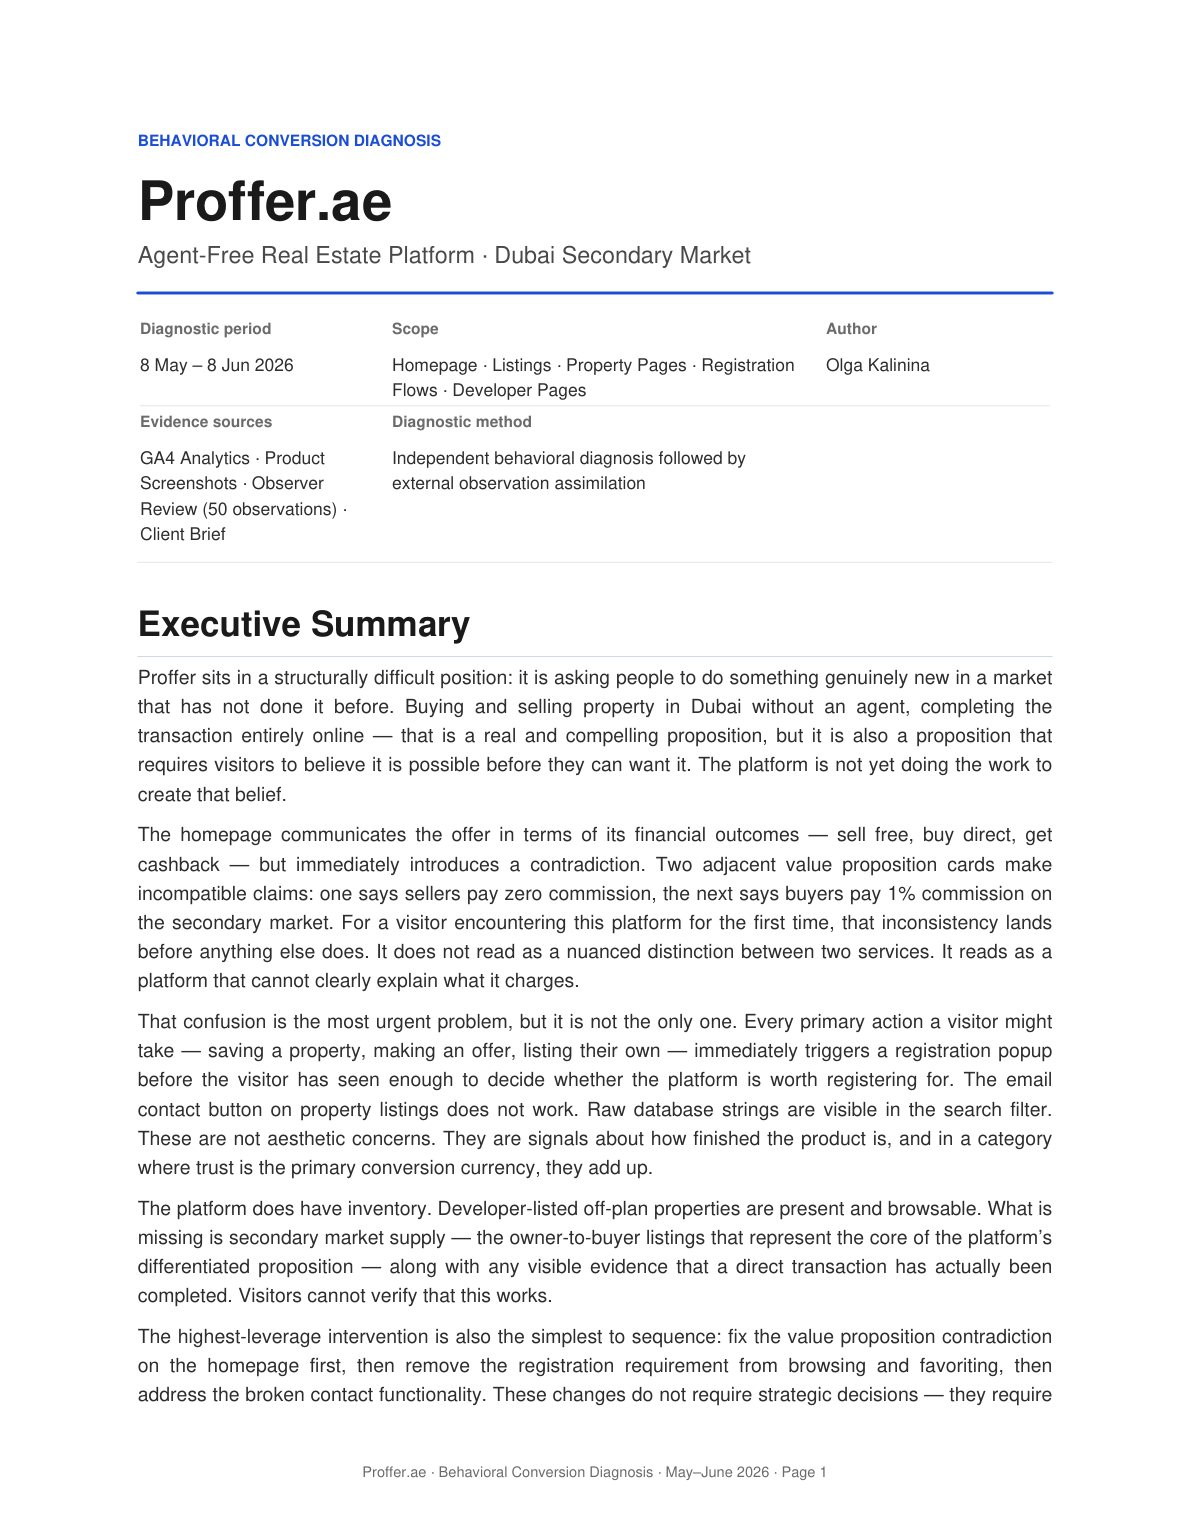
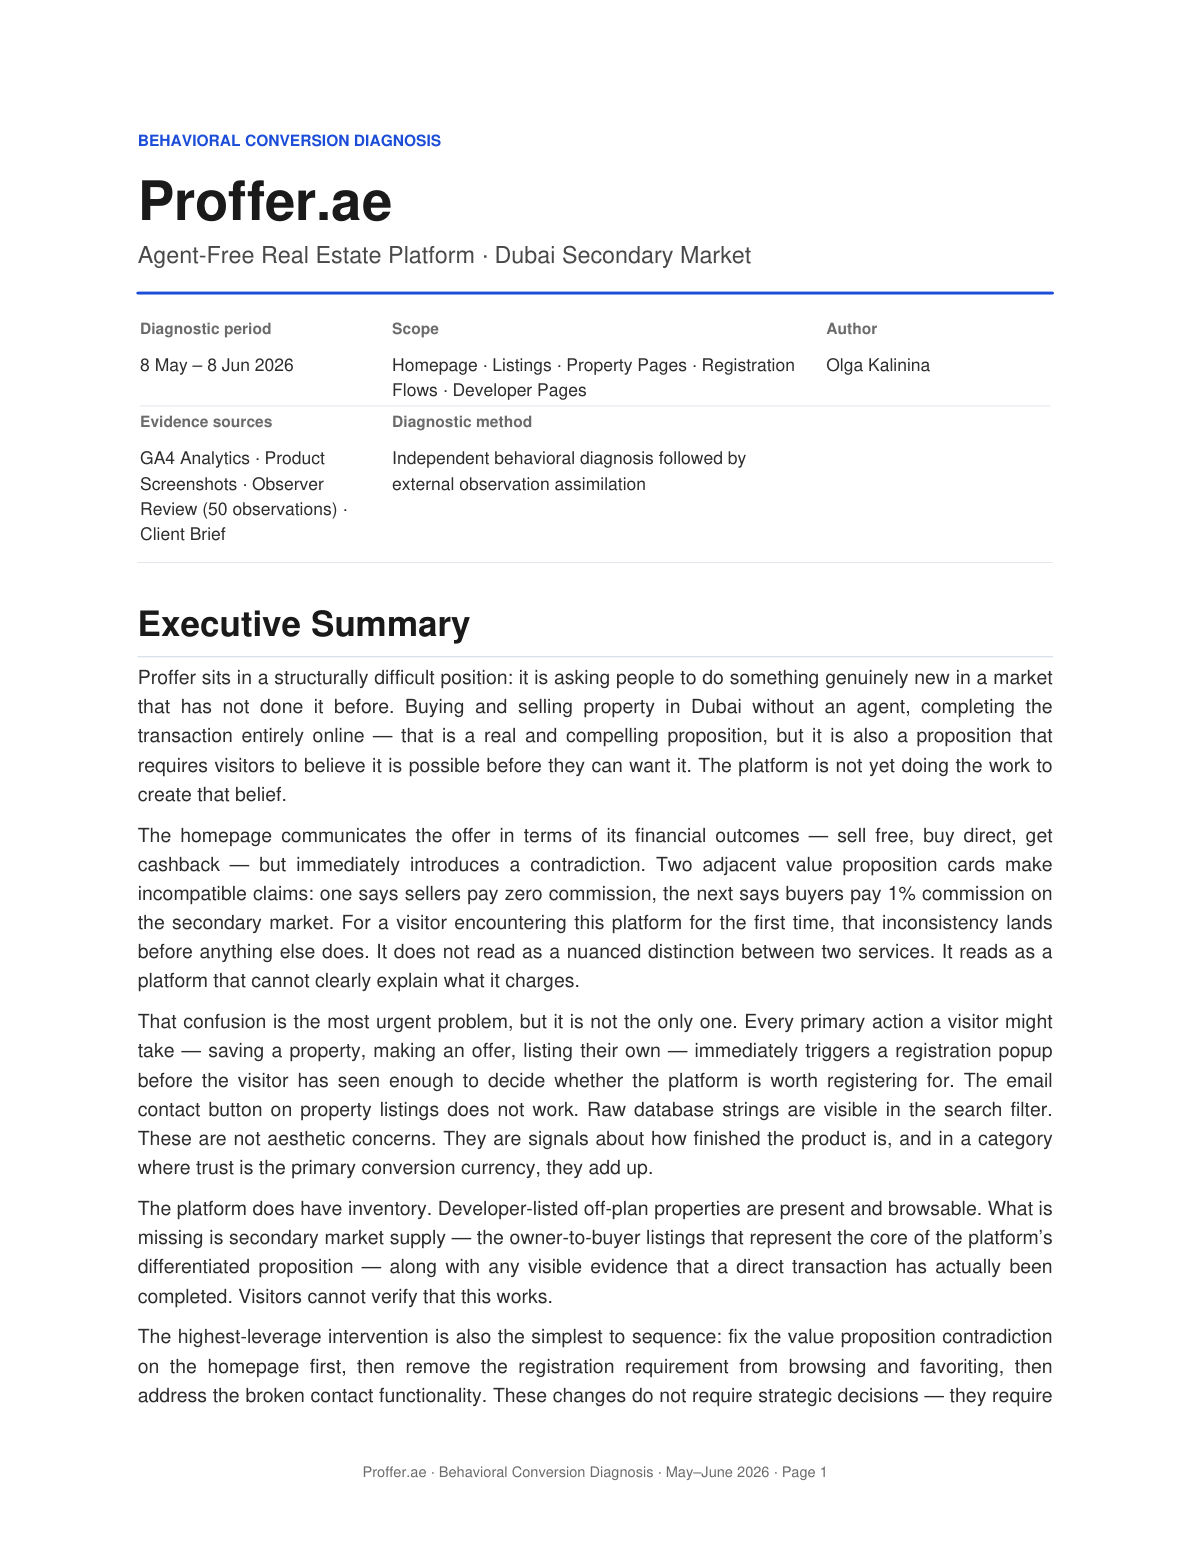
CRO audit: full 11-page report viewer (turn pages, no zoom, no download), text on the left

diff --git a/cro-audit.html b/cro-audit.html
@@ -842,6 +842,24 @@
     .cr-faq-lists > div:last-child li { color: var(--gray); }
     .cr-faq-lists > div:last-child li::before { content: "\2212"; position: absolute; left: 3px; top: -1px; color: var(--gray); }
     @media (max-width: 640px) { .cr-faq-lists { grid-template-columns: 1fr; } }
+    /* report viewer: pages turn like a book, no zoom and no download */
+    .pd.cr .cr-sample { display: grid; grid-template-columns: 4fr 8fr; gap: 56px; align-items: center; }
+    .cr-sample-text { display: flex; flex-direction: column; gap: 12px; }
+    .cr-sample-text .pd-sub { margin-top: 0 !important; }
+    .cr-book { display: flex; flex-direction: column; align-items: center; gap: 22px; min-width: 0; }
+    .cr-book-stage { position: relative; width: 100%; height: 640px; overflow: hidden; touch-action: pan-y; user-select: none; -webkit-user-select: none; perspective: 1600px; outline: none; }
+    .cr-book-stage:focus-visible { outline: 2px solid var(--dark); outline-offset: 4px; border-radius: 16px; }
+    .cr-pg { position: absolute; top: 0; left: 50%; width: 460px; max-width: none; height: auto; border-radius: 12px; border: 1.5px solid var(--light-gray); background: #fff; box-shadow: 0 18px 50px rgba(23,23,23,.14); transition: transform .6s cubic-bezier(.22,.7,.2,1), opacity .5s ease; pointer-events: none; will-change: transform; }
+    .cr-pg.is-near { pointer-events: auto; cursor: pointer; }
+    .cr-pg.is-cur { cursor: default; }
+    .cr-book-controls { display: flex; align-items: center; gap: 18px; }
+    .cr-book-count { font-size: 13px; letter-spacing: .18em; color: var(--gray); font-variant-numeric: tabular-nums; }
+    .cr-book .carousel-btn { width: 48px; height: 48px; border-radius: 50%; border: 2px solid var(--light-gray); background: var(--white, #fff); color: var(--dark); cursor: pointer; display: flex; align-items: center; justify-content: center; transition: border-color .2s; padding: 0; }
+    .cr-book .carousel-btn:hover, .cr-book .carousel-btn.active { border-color: var(--dark); }
+    .cr-book .carousel-btn svg { width: 20px; height: 20px; }
+    @media (max-width: 960px) { .pd.cr .cr-sample { grid-template-columns: 1fr; gap: 28px; } .cr-book-stage { height: 520px; } .cr-pg { width: 370px; } }
+    @media (max-width: 520px) { .cr-book-stage { height: 430px; } .cr-pg { width: 300px; } }
+    @media (prefers-reduced-motion: reduce) { .cr-pg { transition: none; } }
   </style>
   <link rel="icon" href="/favicon.ico" sizes="any" />
   <link rel="icon" type="image/png" sizes="32x32" href="/favicon-32.png" />
@@ -1092,12 +1110,17 @@
               </div>
             </div>
             <div class="cr-sample" data-anim>
-              <h3>See a real report</h3>
-              <p class="pd-sub" style="margin-top:6px;">Three pages from a real diagnosis: the executive summary, one complete finding, and the roadmap. Select a page to enlarge it.</p>
-              <div class="cp-pages">
-                <button type="button" class="cp-page" data-full="images/proffer/report-p1.jpg"><img src="images/proffer/report-p1.jpg" width="1190" height="1540" alt="Report page 1: scope, evidence sources and executive summary" loading="lazy" /><span>Executive summary and scope</span></button>
-                <button type="button" class="cp-page" data-full="images/proffer/report-p3.jpg"><img src="images/proffer/report-p3.jpg" width="1190" height="1540" alt="Report page 3: one complete finding" loading="lazy" /><span>One complete finding, from evidence to validation</span></button>
-                <button type="button" class="cp-page" data-full="images/proffer/report-p11.jpg"><img src="images/proffer/report-p11.jpg" width="1190" height="1540" alt="Report page 11: roadmap and sequencing note" loading="lazy" /><span>The roadmap and the note on sequencing</span></button>
+              <div class="cr-sample-text">
+                <h3>See a real report</h3>
+                <p class="pd-sub">The full report from a real diagnosis, from the executive summary to the roadmap. Turn the pages to read it.</p>
+              </div>
+              <div class="cr-book" data-book role="group" aria-roledescription="carousel" aria-label="Report pages">
+                <div class="cr-book-stage" tabindex="0"><img class="cr-pg" src="images/proffer/report-p1.jpg" width="1190" height="1541" alt="Report page 1 of 11" draggable="false" /><img class="cr-pg" src="images/proffer/report-p2.jpg" width="1190" height="1541" alt="Report page 2 of 11" draggable="false" /><img class="cr-pg" src="images/proffer/report-p3.jpg" width="1190" height="1541" alt="Report page 3 of 11" draggable="false" loading="lazy" /><img class="cr-pg" src="images/proffer/report-p4.jpg" width="1190" height="1541" alt="Report page 4 of 11" draggable="false" loading="lazy" /><img class="cr-pg" src="images/proffer/report-p5.jpg" width="1190" height="1541" alt="Report page 5 of 11" draggable="false" loading="lazy" /><img class="cr-pg" src="images/proffer/report-p6.jpg" width="1190" height="1541" alt="Report page 6 of 11" draggable="false" loading="lazy" /><img class="cr-pg" src="images/proffer/report-p7.jpg" width="1190" height="1541" alt="Report page 7 of 11" draggable="false" loading="lazy" /><img class="cr-pg" src="images/proffer/report-p8.jpg" width="1190" height="1541" alt="Report page 8 of 11" draggable="false" loading="lazy" /><img class="cr-pg" src="images/proffer/report-p9.jpg" width="1190" height="1541" alt="Report page 9 of 11" draggable="false" loading="lazy" /><img class="cr-pg" src="images/proffer/report-p10.jpg" width="1190" height="1541" alt="Report page 10 of 11" draggable="false" loading="lazy" /><img class="cr-pg" src="images/proffer/report-p11.jpg" width="1190" height="1541" alt="Report page 11 of 11" draggable="false" loading="lazy" /></div>
+                <div class="cr-book-controls">
+                  <button type="button" class="carousel-btn" data-book-prev aria-label="Previous page"><svg viewBox="0 0 24 24" fill="none" stroke="currentColor" stroke-width="2"><polyline points="15,18 9,12 15,6"/></svg></button>
+                  <span class="cr-book-count" aria-live="polite">01 / 11</span>
+                  <button type="button" class="carousel-btn active" data-book-next aria-label="Next page"><svg viewBox="0 0 24 24" fill="none" stroke="currentColor" stroke-width="2"><polyline points="9,18 15,12 9,6"/></svg></button>
+                </div>
               </div>
             </div>
           </section>
@@ -1473,6 +1496,39 @@
       t.addEventListener('keydown', function (e) { var n = tabs.length, k = i; if (e.key === 'ArrowRight') k = (i + 1) % n; else if (e.key === 'ArrowLeft') k = (i + n - 1) % n; else if (e.key === 'Home') k = 0; else if (e.key === 'End') k = n - 1; else return; e.preventDefault(); pick(k, true); });
     });
     window.addEventListener('hashchange', function () { var k = fromHash(); if (k > -1) pick(k, false); });
+  })();
+  </script>
+  <script>
+  (function () {
+    var book = document.querySelector('[data-book]'); if (!book) return;
+    var stage = book.querySelector('.cr-book-stage'), pgs = [].slice.call(stage.querySelectorAll('.cr-pg')), cnt = book.querySelector('.cr-book-count');
+    var cur = 0, n = pgs.length;
+    function pad(x) { return (x < 10 ? '0' : '') + x; }
+    function render() {
+      var w = pgs[0].offsetWidth || 460;
+      pgs.forEach(function (p, i) {
+        var d = i - cur, a = Math.abs(d), x = d * w * 0.64, sc = 1 - Math.min(a, 2) * 0.1, ry = d === 0 ? 0 : (d > 0 ? -14 : 14);
+        p.style.transform = 'translateX(calc(-50% + ' + x + 'px)) scale(' + sc + ') rotateY(' + ry + 'deg)';
+        p.style.opacity = a === 0 ? 1 : (a === 1 ? 0.45 : 0);
+        p.style.zIndex = 10 - a;
+        p.classList.toggle('is-cur', d === 0); p.classList.toggle('is-near', a === 1);
+        p.setAttribute('aria-hidden', d === 0 ? 'false' : 'true');
+      });
+      cnt.textContent = pad(cur + 1) + ' / ' + pad(n);
+    }
+    function go(i) { cur = Math.max(0, Math.min(n - 1, i)); render(); }
+    book.querySelector('[data-book-prev]').addEventListener('click', function () { go(cur - 1); });
+    book.querySelector('[data-book-next]').addEventListener('click', function () { go(cur + 1); });
+    pgs.forEach(function (p, i) { p.addEventListener('click', function () { if (Math.abs(i - cur) === 1) go(i); }); });
+    stage.addEventListener('keydown', function (e) { if (e.key === 'ArrowRight') { e.preventDefault(); go(cur + 1); } else if (e.key === 'ArrowLeft') { e.preventDefault(); go(cur - 1); } });
+    var sx = null;
+    stage.addEventListener('pointerdown', function (e) { sx = e.clientX; });
+    stage.addEventListener('pointerup', function (e) { if (sx === null) return; var dx = e.clientX - sx; sx = null; if (Math.abs(dx) > 40) go(cur + (dx < 0 ? 1 : -1)); });
+    stage.addEventListener('pointercancel', function () { sx = null; });
+    stage.addEventListener('contextmenu', function (e) { e.preventDefault(); });
+    window.addEventListener('resize', render);
+    pgs[0].addEventListener('load', render);
+    render();
   })();
   </script>
   <script src="/js/theme.js" defer></script>
